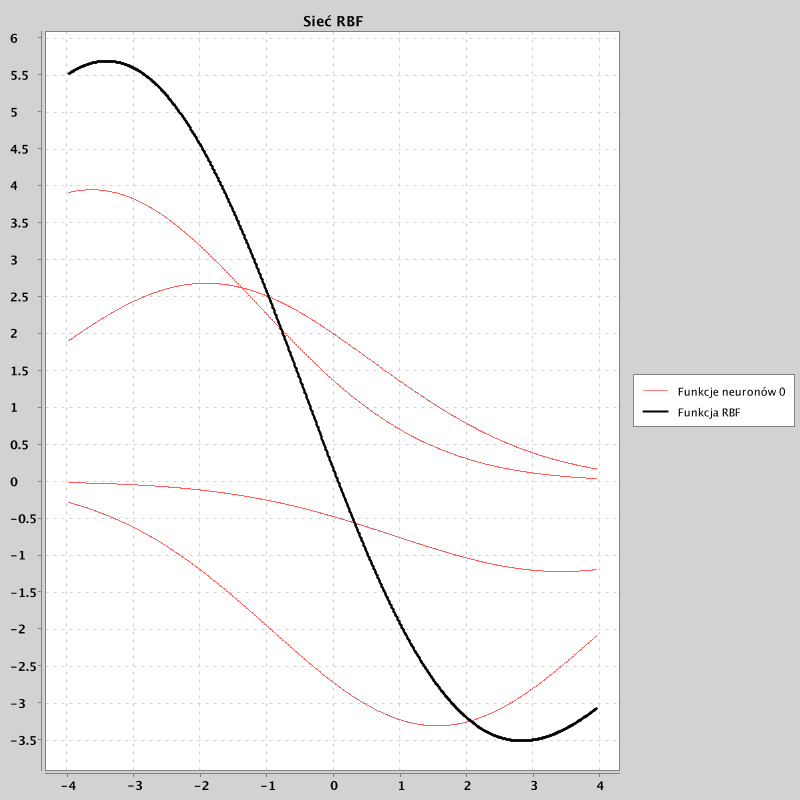
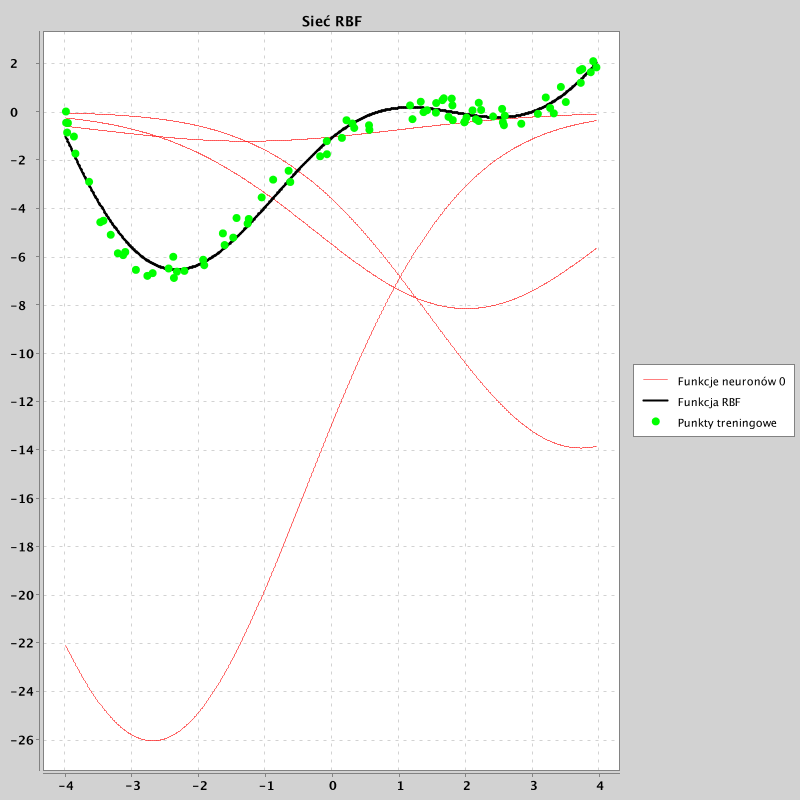
Warmup 2

diff --git a/src/main/kotlin/warmups/Warmup2.kt b/src/main/kotlin/warmups/Warmup2.kt
@@ -13,7 +13,6 @@ import org.knowm.xchart.style.lines.SeriesLines
 import org.knowm.xchart.style.markers.SeriesMarkers
 import utils.Charts
 import java.awt.Color
-import kotlin.math.abs
 
 class Warmup2 : Warmup() {
     private val data = DataLoader.loadFile("approx1", 1, 1)
@@ -32,8 +31,10 @@ class Warmup2 : Warmup() {
             data,
             FromDataGenerator(),
             EqualSigmaGenerator(),
-            0.1
+            0.5
         )
+
+        network.train(6000) { i, error -> if (i % 1000 == 0) println("$i $error") }
 
         Charts.saveChart("out4_approx", plotNetwork(arguments, network))
     }
@@ -45,28 +46,13 @@ class Warmup2 : Warmup() {
             data,
             FromDataGenerator(),
             EqualSigmaGenerator(),
-            0.5
+            0.6
         )
 
-        var i = 0
-        val errors = ArrayList<Double>()
-        while (true) {
-            network.step()
-            i += 1
-            val error = network.error()
-            println("$i $error")
+        network.train(6000) { i, error -> if (i % 1000 == 0) println("$i $error") }
+        println("Trained...")
 
-            if (error < 0.01) {
-                break
-            }
-
-            errors += error
-        }
-
-
-        if (network.error() < 10.0) {
-            Charts.saveChart("out10_approx", plotNetwork(arguments, network))
-        }
+        Charts.saveChart("out10_approx", plotNetwork(arguments, network))
     }
 
     override fun plotNetwork(arguments: List<Double>, network: Network): XYChart {
@@ -83,6 +69,6 @@ class Warmup2 : Warmup() {
 
 fun main() {
     val warmup = Warmup2()
-    //warmup.taskK4()
+    warmup.taskK4()
     warmup.taskK10()
 }

diff --git a/src/main/kotlin/network/Network.kt b/src/main/kotlin/network/Network.kt
@@ -59,4 +59,21 @@ class Network(val numRadialNeurons : Int, var alpha : Double) {
     fun error(data: List<Pair<Point, Point>>) = data.sumByDouble { (input, expected) -> (output(input) - expected).pow(2.0).sum() } / (2.0 * data.size)
     fun error() = error(trainingData)
 
+    fun train(error: Double, onIteration : ((i : Int, error: Double) -> Unit)? = null) {
+        var i = 0
+        do {
+            step()
+            i += 1
+            val currentError = error()
+            onIteration?.invoke(i, currentError)
+        } while (currentError > error)
+    }
+
+    fun train(iters: Int,  onIteration : ((i : Int, error: Double) -> Unit)? = null) {
+        for (i in 1..iters) {
+            step()
+            onIteration?.invoke(i, error())
+        }
+    }
+
 }
